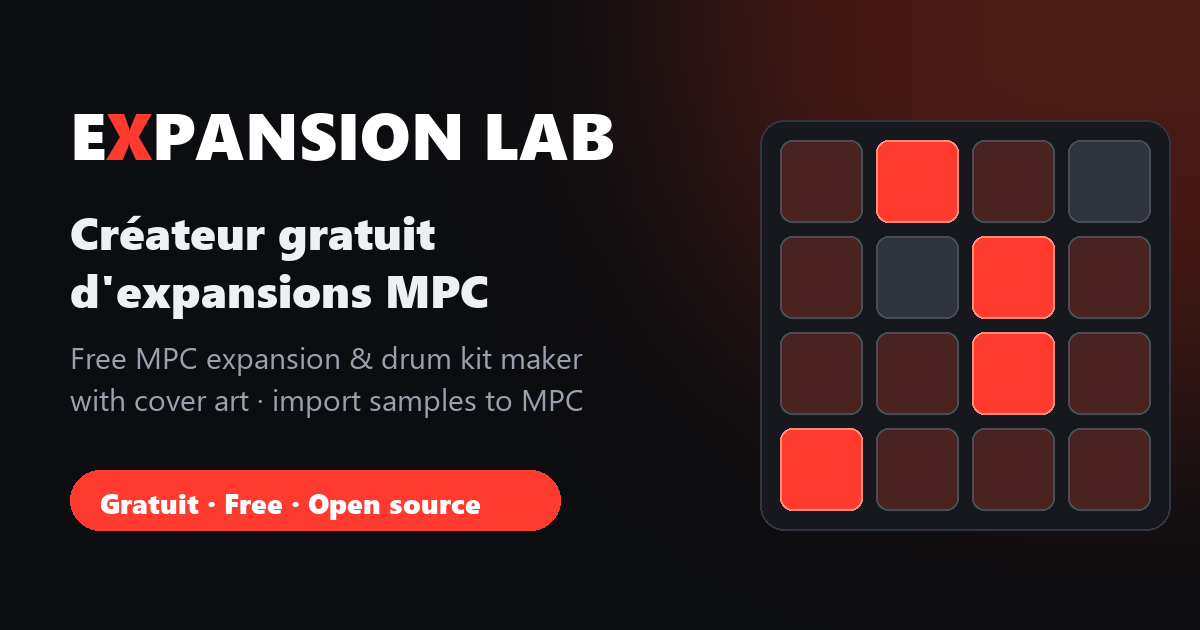
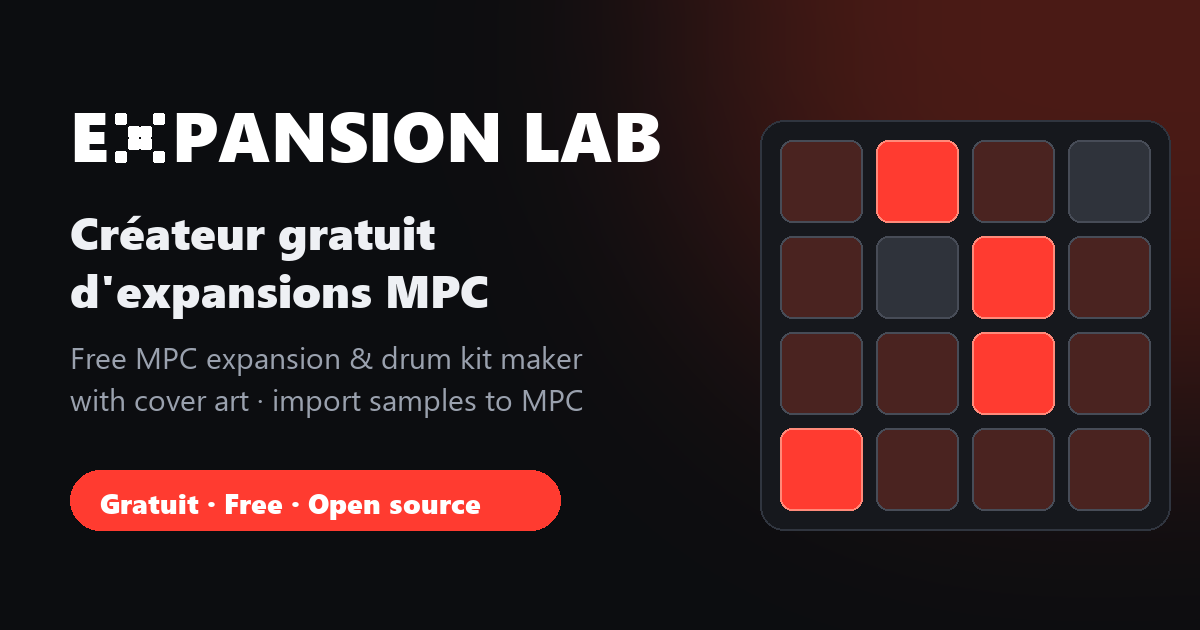
Nouvel en-tête, X en pads et message glisser-déposer
- Logo : X du mot EXPANSION dessiné en pads, lettres à la même hauteur
- Icône rouge 2x plus grande, titre aligné sur sa hauteur
- En-tête réorganisé (accroche + boutons sur la 2e ligne), responsive
- « Un simple glisser-déposer suffit » sur les pages d'accueil FR/EN
- Fichier de clé IndexNow (Bing)

Changed region(s): [[0.0617, 0.181, 0.555, 0.2714]]

diff --git a/index.html b/index.html
@@ -4,7 +4,7 @@
 <meta charset="utf-8">
 <meta name="viewport" content="width=device-width,initial-scale=1">
 <title>Expansion Lab – Créateur gratuit d'expansions &amp; kits MPC (Windows, en ligne)</title>
-<meta name="description" content="Application gratuite et open source pour créer des kits de batterie MPC (.xpm) et des expansions MPC avec image, et importer vos samples sur MPC. En ligne ou à télécharger pour Windows. MPC One, Live, X, Key.">
+<meta name="description" content="Un simple glisser-déposer suffit : application gratuite et open source pour créer des kits de batterie MPC (.xpm) et des expansions MPC avec image, et importer vos samples sur MPC. En ligne ou à télécharger pour Windows. MPC One, Live, X, Key.">
 <meta name="keywords" content="créer expansion MPC, créateur de kit MPC, importer samples MPC, convertir samples MPC, programme drum XPM, kit batterie MPC, expansion MPC gratuite, logiciel gratuit MPC, logiciel MPC Windows, image expansion MPC, pochette expansion MPC, One Shot Note On MPC, MPC One, MPC Live, MPC X, MPC Key 61, MPC Key 37, MPC Studio, MPC expansion maker, MPC drum kit maker, free MPC expansion, open source MPC">
 <meta name="robots" content="index,follow,max-image-preview:large">
 <meta name="author" content="Guizmoh">
@@ -27,7 +27,9 @@
 <meta property="og:locale:alternate" content="en_US">
 <meta name="twitter:card" content="summary_large_image">
 <meta name="twitter:image" content="https://guizmoh.github.io/expansion-lab/og-image.png">
-<link rel="stylesheet" href="assets/site.css">
+<link rel="preconnect" href="https://fonts.googleapis.com">
+<link href="https://fonts.googleapis.com/css2?family=Rajdhani:wght@700&display=swap" rel="stylesheet">
+<link rel="stylesheet" href="assets/site.css?v=6">
 <script type="application/ld+json">
 {
   "@context": "https://schema.org",
@@ -66,17 +68,20 @@
 <body>
 <div class="wrap">
   <nav>
-    <a class="brand" href="./"><img src="favicon.svg" width="30" height="30" alt=""> <b class="bt">E<em>X</em>PANSION LAB</b></a>
+    <a class="brand" href="./"><img class="bicon" src="favicon.svg" alt=""> <b class="bt"><span class="sr">Expansion Lab</span><span class="lw" aria-hidden="true">E<svg class="xpad" viewBox="0 0 100 100" aria-hidden="true"><rect x="0" y="0" width="22" height="22" rx="4"/><rect x="26" y="26" width="22" height="22" rx="4"/><rect x="52" y="52" width="22" height="22" rx="4"/><rect x="78" y="78" width="22" height="22" rx="4"/><rect x="78" y="0" width="22" height="22" rx="4"/><rect x="52" y="26" width="22" height="22" rx="4"/><rect x="26" y="52" width="22" height="22" rx="4"/><rect x="0" y="78" width="22" height="22" rx="4"/></svg>PANSION LAB</span></b></a>
     <div class="sp"></div>
-    <a class="kofi-mini" href="https://ko-fi.com/omnipotard" target="_blank" rel="noopener">☕ Soutenir sur Ko-fi</a>
-    <a class="gh" href="https://github.com/Guizmoh/expansion-lab">★ GitHub</a>
-    <div class="langsw" aria-label="Langue"><a class="on" href="./" hreflang="fr" lang="fr" data-setlang="fr">FR</a><a href="en/" hreflang="en" lang="en" data-setlang="en">EN</a></div>
+    <div class="navr">
+      <a class="kofi-mini" href="https://ko-fi.com/omnipotard" target="_blank" rel="noopener">☕ Soutenir sur Ko-fi</a>
+      <a class="gh" href="https://github.com/Guizmoh/expansion-lab">★ GitHub</a>
+      <div class="langsw" aria-label="Langue"><a class="on" href="./" hreflang="fr" lang="fr" data-setlang="fr">FR</a><a href="en/" hreflang="en" lang="en" data-setlang="en">EN</a></div>
+    </div>
   </nav>
 
   <header class="hero">
     <div>
       <span class="badge">● Gratuit · Open source · Sans inscription · Windows &amp; en ligne</span>
       <h1>Créez vos <em>kits de batterie</em> et <em>expansions MPC</em> gratuitement</h1>
+      <p class="dnd">⤓ Un simple glisser-déposer suffit : déposez vos sons sur les pads, votre expansion est prête.</p>
       <p class="lead">Application gratuite et open source pour <strong>importer vos samples sur MPC</strong>, créer des <strong>programmes drum (.xpm)</strong> et des <strong>expansions MPC avec image</strong> visible dans la liste des expansions. Utilisez-la en ligne ou <strong>téléchargez-la pour Windows</strong>.</p>
       <div class="cta">
         <a class="btn main" href="mpc-expansion-maker.html?lang=fr" data-setlang="fr">▶ Ouvrir l'application<small>En ligne, gratuit</small></a>
@@ -98,7 +103,7 @@
     <h2>Fonctionnalités</h2>
     <p class="sub">Tout ce qu'il faut pour transformer vos samples en kit MPC prêt à jouer.</p>
     <div class="features">
-      <div class="f"><div class="ic">⤓</div><h3>Glisser-déposer vos samples</h3><p>Déposez des fichiers ou un dossier entier sur les pads. WAV, MP3, AIFF, FLAC et OGG sont convertis automatiquement en WAV.</p></div>
+      <div class="f"><div class="ic">⤓</div><h3>Un simple glisser-déposer suffit</h3><p>Déposez des fichiers ou un dossier entier sur les pads. WAV, MP3, AIFF, FLAC et OGG sont convertis automatiquement en WAV.</p></div>
       <div class="f"><div class="ic">▦</div><h3>Kits de batterie MPC (.xpm)</h3><p>8 banques A–H, 128 pads, plusieurs kits par expansion. Échangez les pads, écoutez au clic ou au clavier.</p></div>
       <div class="f"><div class="ic">▣</div><h3>Expansion MPC avec image</h3><p>Ajoutez une pochette : elle apparaît dans la liste des expansions de la MPC. Sans image, une pochette est générée.</p></div>
       <div class="f"><div class="ic">⚙</div><h3>One Shot ou Note On</h3><p>Choisissez pour chaque pad si le son joue en entier (One Shot) ou seulement tant que le pad est tenu (Note On).</p></div>
@@ -129,7 +134,7 @@
 
   <section id="comment">
     <h2>Comment créer une expansion MPC</h2>
-    <p class="sub">Quatre étapes, quelques minutes.</p>
+    <p class="sub">Un simple glisser-déposer suffit : quatre étapes, quelques minutes.</p>
     <div class="steps">
       <div class="st"><b>Glissez vos samples</b><span>sur les pads ou dans la bibliothèque</span></div>
       <div class="st"><b>Ajoutez une image</b><span>elle s'affichera dans la liste des expansions</span></div>
@@ -178,6 +183,6 @@
     <p>Projet indépendant, non affilié à Akai Professional ou inMusic. « MPC » est une marque de son propriétaire.</p>
   </div>
 </footer>
-<script src="assets/site.js"></script>
+<script src="assets/site.js?v=3"></script>
 </body>
 </html>

diff --git a/en/index.html b/en/index.html
@@ -4,7 +4,7 @@
 <meta charset="utf-8">
 <meta name="viewport" content="width=device-width,initial-scale=1">
 <title>Expansion Lab – Free MPC Expansion &amp; Drum Kit Maker (Windows &amp; online)</title>
-<meta name="description" content="Free, open-source app to create MPC drum kits (.xpm) and MPC expansions with cover art, and import your samples into your MPC. Use it online or download it for Windows. MPC One, Live, X, Key.">
+<meta name="description" content="A simple drag &amp; drop is all it takes: free, open-source app to create MPC drum kits (.xpm) and MPC expansions with cover art, and import your samples into your MPC. Use it online or download it for Windows. MPC One, Live, X, Key.">
 <meta name="keywords" content="MPC expansion maker, create MPC expansion, MPC drum kit maker, import samples to MPC, convert samples for MPC, XPM drum program creator, MPC drum program, free MPC expansion, free MPC software, MPC software Windows, MPC expansion cover art, MPC expansion image, One Shot Note On MPC, MPC One, MPC Live, MPC X, MPC Key 61, MPC Key 37, MPC Studio, open source MPC tool, Akai MPC sample pack">
 <meta name="robots" content="index,follow,max-image-preview:large">
 <meta name="author" content="Guizmoh">
@@ -27,7 +27,9 @@
 <meta property="og:locale:alternate" content="fr_FR">
 <meta name="twitter:card" content="summary_large_image">
 <meta name="twitter:image" content="https://guizmoh.github.io/expansion-lab/og-image.png">
-<link rel="stylesheet" href="../assets/site.css">
+<link rel="preconnect" href="https://fonts.googleapis.com">
+<link href="https://fonts.googleapis.com/css2?family=Rajdhani:wght@700&display=swap" rel="stylesheet">
+<link rel="stylesheet" href="../assets/site.css?v=6">
 <script type="application/ld+json">
 {
   "@context": "https://schema.org",
@@ -66,17 +68,20 @@
 <body>
 <div class="wrap">
   <nav>
-    <a class="brand" href="./"><img src="../favicon.svg" width="30" height="30" alt=""> <b class="bt">E<em>X</em>PANSION LAB</b></a>
+    <a class="brand" href="./"><img class="bicon" src="../favicon.svg" alt=""> <b class="bt"><span class="sr">Expansion Lab</span><span class="lw" aria-hidden="true">E<svg class="xpad" viewBox="0 0 100 100" aria-hidden="true"><rect x="0" y="0" width="22" height="22" rx="4"/><rect x="26" y="26" width="22" height="22" rx="4"/><rect x="52" y="52" width="22" height="22" rx="4"/><rect x="78" y="78" width="22" height="22" rx="4"/><rect x="78" y="0" width="22" height="22" rx="4"/><rect x="52" y="26" width="22" height="22" rx="4"/><rect x="26" y="52" width="22" height="22" rx="4"/><rect x="0" y="78" width="22" height="22" rx="4"/></svg>PANSION LAB</span></b></a>
     <div class="sp"></div>
-    <a class="kofi-mini" href="https://ko-fi.com/omnipotard" target="_blank" rel="noopener">☕ Support on Ko-fi</a>
-    <a class="gh" href="https://github.com/Guizmoh/expansion-lab">★ GitHub</a>
-    <div class="langsw" aria-label="Language"><a href="../" hreflang="fr" lang="fr" data-setlang="fr">FR</a><a class="on" href="./" hreflang="en" lang="en" data-setlang="en">EN</a></div>
+    <div class="navr">
+      <a class="kofi-mini" href="https://ko-fi.com/omnipotard" target="_blank" rel="noopener">☕ Support on Ko-fi</a>
+      <a class="gh" href="https://github.com/Guizmoh/expansion-lab">★ GitHub</a>
+      <div class="langsw" aria-label="Language"><a href="../" hreflang="fr" lang="fr" data-setlang="fr">FR</a><a class="on" href="./" hreflang="en" lang="en" data-setlang="en">EN</a></div>
+    </div>
   </nav>
 
   <header class="hero">
     <div>
       <span class="badge">● Free · Open source · No sign-up · Windows &amp; online</span>
       <h1>Build your own <em>MPC drum kits</em> and <em>expansions</em> for free</h1>
+      <p class="dnd">⤓ A simple drag &amp; drop is all it takes: drop your sounds on the pads and your expansion is ready.</p>
       <p class="lead">A free, open-source app to <strong>import samples into your MPC</strong>, build <strong>drum programs (.xpm)</strong> and <strong>MPC expansions with cover art</strong> shown in the expansion browser. Use it online or <strong>download it for Windows</strong>.</p>
       <div class="cta">
         <a class="btn main" href="../mpc-expansion-maker.html?lang=en" data-setlang="en">▶ Open the app<small>Online, free</small></a>
@@ -98,7 +103,7 @@
     <h2>Features</h2>
     <p class="sub">Everything you need to turn your samples into a ready-to-play MPC kit.</p>
     <div class="features">
-      <div class="f"><div class="ic">⤓</div><h3>Drag &amp; drop your samples</h3><p>Drop files or a whole folder onto the pads. WAV, MP3, AIFF, FLAC and OGG are converted to WAV automatically.</p></div>
+      <div class="f"><div class="ic">⤓</div><h3>A simple drag &amp; drop is all it takes</h3><p>Drop files or a whole folder onto the pads. WAV, MP3, AIFF, FLAC and OGG are converted to WAV automatically.</p></div>
       <div class="f"><div class="ic">▦</div><h3>MPC drum programs (.xpm)</h3><p>8 banks A–H, 128 pads, multiple kits per expansion. Swap pads, audition by click or keyboard.</p></div>
       <div class="f"><div class="ic">▣</div><h3>MPC expansion with cover art</h3><p>Add a cover image: it shows in the MPC expansion browser. No image? One is generated for you.</p></div>
       <div class="f"><div class="ic">⚙</div><h3>One Shot or Note On</h3><p>Choose per pad whether the sound plays in full (One Shot) or only while the pad is held (Note On).</p></div>
@@ -129,7 +134,7 @@
 
   <section id="how">
     <h2>How to make an MPC expansion</h2>
-    <p class="sub">Four steps, a few minutes.</p>
+    <p class="sub">A simple drag &amp; drop is all it takes: four steps, a few minutes.</p>
     <div class="steps">
       <div class="st"><b>Drag your samples</b><span>onto the pads or into the library</span></div>
       <div class="st"><b>Add a cover image</b><span>it shows in the expansion browser</span></div>
@@ -178,6 +183,6 @@
     <p>Independent project, not affiliated with Akai Professional or inMusic. “MPC” is a trademark of its owner.</p>
   </div>
 </footer>
-<script src="../assets/site.js"></script>
+<script src="../assets/site.js?v=3"></script>
 </body>
 </html>

diff --git a/mpc-expansion-maker.html b/mpc-expansion-maker.html
@@ -31,13 +31,21 @@ body{margin:0;color:var(--text);font:14px/1.45 Inter,"Segoe UI",system-ui,sans-s
 .display{font-family:Rajdhani,"Segoe UI",sans-serif;letter-spacing:.06em}
 
 /* Header */
-header{display:flex;align-items:center;gap:12px;padding:20px 28px;max-width:1480px;margin:0 auto;flex-wrap:wrap}
-.logo{width:44px;height:44px;border-radius:12px;background:linear-gradient(145deg,#ff4d3d,#b3140c);display:grid;grid-template-columns:repeat(3,1fr);gap:3px;padding:8px;box-shadow:0 6px 20px -6px var(--glow),inset 0 1px 0 #ffffff40;flex:none}
-.logo i{background:#ffffffd0;border-radius:2px}
+header{--b:clamp(26px,6vw,88px);display:flex;align-items:center;gap:12px 16px;padding:20px 28px;max-width:1480px;margin:0 auto;flex-wrap:wrap}
+.logo{width:var(--b);height:var(--b);border-radius:calc(var(--b)*.27);background:linear-gradient(145deg,#ff4d3d,#b3140c);display:grid;grid-template-columns:repeat(3,1fr);gap:calc(var(--b)*.07);padding:calc(var(--b)*.18);box-shadow:0 6px 20px -6px var(--glow),inset 0 1px 0 #ffffff40;flex:none}
+.logo i{background:#ffffffd0;border-radius:calc(var(--b)*.045)}
 .logo i:nth-child(2n){background:#ffffff55}
-header h1{margin:0;font-size:26px;font-weight:700;line-height:1}
-header h1 span{color:var(--red)}
-header p{margin:4px 0 0;color:var(--muted);font-size:13px}
+header h1{margin:0;font-size:calc(var(--b)/.65);font-weight:700;line-height:.65}
+.hbreak{flex-basis:100%;height:0}
+header .tagline{flex:1 1 260px;margin:0}
+.hbtns{display:flex;gap:10px;align-items:center;flex-wrap:wrap;margin-left:auto}
+header h1 .lw{position:relative;top:calc(var(--b)*.025)}
+.xpad{height:.65em;height:1cap;width:auto;vertical-align:0;margin:0 .04em;fill:currentColor}
+.lw{white-space:nowrap;display:inline-block}
+.sr{position:absolute;width:1px;height:1px;overflow:hidden;clip:rect(0 0 0 0);white-space:nowrap}
+
+
+header p{margin:4px 0 0;color:var(--muted);font-size:14px}
 .hbtn{color:var(--muted);font-size:13px;text-decoration:none;border:1px solid var(--line2);padding:7px 12px;border-radius:20px;background:transparent;white-space:nowrap}
 .hbtn:hover{color:var(--text)}
 .kofi-btn{font-size:13px;font-weight:600;color:#f1d6c4;text-decoration:none;background:#d99a721a;border:1px solid #d99a7250;padding:7px 14px;border-radius:20px;white-space:nowrap}
@@ -201,15 +209,16 @@ dialog::backdrop{background:#000a;backdrop-filter:blur(3px)}
 <body>
 <header>
   <a href="./" class="logo" data-i18n-title="home"><i></i><i></i><i></i><i></i><i></i><i></i><i></i><i></i><i></i></a>
-  <div style="flex:1;min-width:200px">
-    <h1 class="display">E<span>X</span>PANSION LAB</h1>
-    <p data-i18n="tagline"></p>
-  </div>
+  <h1 class="display brandtitle"><span class="sr">Expansion Lab</span><span class="lw" aria-hidden="true">E<svg class="xpad" viewBox="0 0 100 100" aria-hidden="true"><rect x="0" y="0" width="22" height="22" rx="4"/><rect x="26" y="26" width="22" height="22" rx="4"/><rect x="52" y="52" width="22" height="22" rx="4"/><rect x="78" y="78" width="22" height="22" rx="4"/><rect x="78" y="0" width="22" height="22" rx="4"/><rect x="52" y="26" width="22" height="22" rx="4"/><rect x="26" y="52" width="22" height="22" rx="4"/><rect x="0" y="78" width="22" height="22" rx="4"/></svg>PANSION LAB</span></h1>
+  <div class="hbreak"></div>
+  <p class="tagline" data-i18n="tagline"></p>
+  <div class="hbtns">
   <button class="hbtn" id="installBtn" data-i18n="install"></button>
   <a href="https://ko-fi.com/omnipotard" target="_blank" rel="noopener" class="kofi-btn" data-i18n="kofiBtn" data-i18n-title="kofiTitle"></a>
   <a href="./" class="hbtn home" id="homeLink" data-i18n="homeBack"></a>
   <div class="langsw" role="group" aria-label="Langue / Language">
     <button data-lang="fr">FR</button><button data-lang="en">EN</button>
+  </div>
   </div>
 </header>
 

diff --git a/assets/site.css b/assets/site.css
@@ -3,9 +3,16 @@
 body{margin:0;background:radial-gradient(1100px 600px at 70% -150px,#3a1512 0%,transparent 60%),var(--bg);color:var(--text);font:16px/1.6 "Segoe UI",system-ui,-apple-system,Roboto,sans-serif}
 a{color:inherit}
 .wrap{max-width:1120px;margin:0 auto;padding:0 20px}
-nav{display:flex;align-items:center;gap:10px;padding:18px 0;flex-wrap:wrap}
-nav .brand{display:flex;align-items:center;gap:10px;font-weight:800;letter-spacing:.04em;text-decoration:none}
-nav .brand .bt em{font-style:normal;color:var(--red)}
+nav{--b:clamp(26px,5vw,56px);display:flex;align-items:center;gap:10px;padding:22px 0;flex-wrap:wrap}
+nav .brand{display:flex;align-items:center;gap:calc(var(--b)*.3);font-weight:800;letter-spacing:.04em;text-decoration:none}
+nav .brand .bt{font:700 calc(var(--b)/.65) Rajdhani,'Segoe UI',sans-serif;letter-spacing:.06em;line-height:.65}
+nav .bicon{width:var(--b);height:var(--b);flex:none}
+nav .brand .lw{position:relative;top:calc(var(--b)*.03)}
+.navr{display:flex;gap:10px;align-items:center;margin-left:auto}
+.xpad{height:.65em;height:1cap;width:auto;vertical-align:0;margin:0 .04em;fill:currentColor}
+.lw{white-space:nowrap;display:inline-block}
+.sr{position:absolute;width:1px;height:1px;overflow:hidden;clip:rect(0 0 0 0);white-space:nowrap}
+
 nav .sp{flex:1}
 nav a.gh{font-size:14px;color:var(--muted);text-decoration:none;border:1px solid var(--line);padding:7px 12px;border-radius:20px}
 nav a.gh:hover{color:var(--text);border-color:#555}
@@ -21,6 +28,7 @@ nav a.gh:hover{color:var(--text);border-color:#555}
 .badge{display:inline-flex;gap:8px;align-items:center;font-size:13px;color:var(--ok);background:#3ddc8414;border:1px solid #3ddc8433;padding:4px 12px;border-radius:20px}
 h1{font-size:clamp(32px,5vw,52px);line-height:1.08;margin:16px 0 18px;letter-spacing:-.01em}
 h1 em{font-style:normal;color:var(--red)}
+.dnd{display:inline-block;margin:0 0 16px;padding:9px 16px;font-size:17px;font-weight:600;color:#fff;background:#ff3b3014;border:1px solid #ff3b3040;border-radius:12px}
 .lead{color:#c9ced8;margin:0 0 6px;font-size:17px}
 .cta{display:flex;gap:12px;flex-wrap:wrap;margin-top:26px}
 .btn{display:inline-flex;align-items:center;gap:10px;padding:15px 24px;border-radius:12px;font-weight:700;text-decoration:none;transition:transform .15s;border:0;font:inherit;font-weight:700;cursor:pointer;color:inherit}

diff --git a/sw.js b/sw.js
@@ -1,6 +1,6 @@
 // Service worker : rend l'appli installable et utilisable hors connexion.
 // Service worker: makes the app installable and usable offline.
-const CACHE = "expansion-lab-v2";
+const CACHE = "expansion-lab-v3";
 const CORE = ["./", "./en/", "./mpc-expansion-maker.html", "./favicon.svg", "./manifest.webmanifest",
   "./assets/site.css", "./assets/site.js", "./icons/icon-192.png", "./icons/icon-512.png"];
 self.addEventListener("install", e => { e.waitUntil(caches.open(CACHE).then(c => c.addAll(CORE)).then(() => self.skipWaiting())); });
